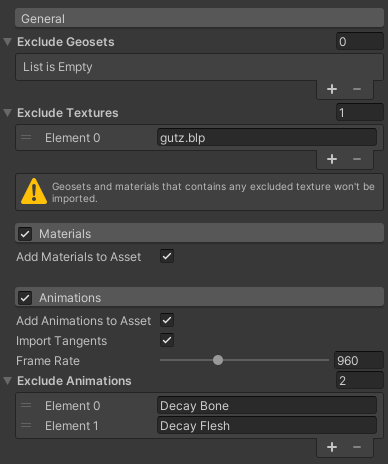
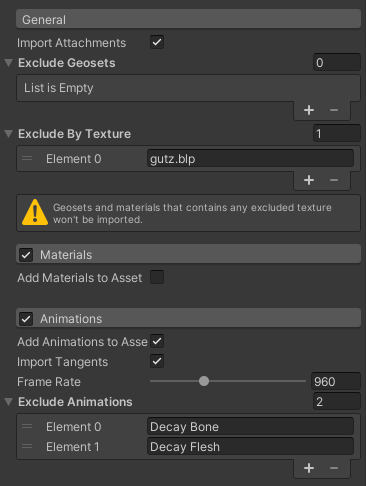
Added import attachments functionality

diff --git a/Runtime/MdxModel.cs b/Runtime/MdxModel.cs
@@ -107,7 +107,7 @@ public class MdxModel
         for( int i = 0; i < cmodel.Geosets.Count; i++ )
         {
             CGeoset cgeoset = cmodel.Geosets.Get(i);
-            if( settings.excludeGeosets.Contains(i) || cgeoset.ContainsTextures(settings.excludeTextures) )
+            if( settings.excludeGeosets.Contains(i) || cgeoset.ContainsTextures(settings.excludeByTexture) )
             {
                 continue;
             }
@@ -180,7 +180,7 @@ public class MdxModel
         for( int i = 0; i < cmodel.Materials.Count; i++ )
         {
             CMaterial cmaterial = cmodel.Materials.Get(i);
-            if( cmaterial.ContainsTextures(settings.excludeTextures) )
+            if( cmaterial.ContainsTextures(settings.excludeByTexture) )
             {
                 continue;
             }
@@ -214,7 +214,7 @@ public class MdxModel
         for( int i = 0; i < cmodel.Geosets.Count; i++ )
         {
             CGeoset cgeoset = cmodel.Geosets.Get(i);
-            if( cgeoset.ContainsTextures(settings.excludeTextures) )
+            if( cgeoset.ContainsTextures(settings.excludeByTexture) )
             {
                 continue;
             }
@@ -321,13 +321,52 @@ public class MdxModel
         renderer.bones = bones.Values.ToArray().Select(go => go.transform).ToArray();
         renderer.rootBone = skeleton.transform;
 
+        if( settings.importAttachments )
+        {
+            ImportAttachments();
+        }
+
+        ImportWeights();
+    }
+
+    private void ImportAttachments()
+    {
+        CObjectContainer<CAttachment> cattachments = cmodel.Attachments;
+        for( int i = 0; i < cattachments.Count; i++ )
+        {
+            CAttachment cattachment = cattachments.Get(i);
+            GameObject attachment = new GameObject(cattachment.Name);
+
+            // Pivot points are the positions of each object.
+            CVector3 cpivot = cattachment.PivotPoint;
+
+            // Set the bone position.
+            // MDX/MDL up axis is Z.
+            // Unity up axis is Y.
+            attachment.transform.position = new Vector3(cpivot.X, cpivot.Z, cpivot.Y);
+
+            // Set the attachment parent.
+            if( bones.ContainsKey(cattachment.Parent.NodeId) )
+            {
+                GameObject parent = bones[cattachment.Parent.NodeId];
+                attachment.transform.SetParent(parent.transform);
+            }
+            else
+            {
+                attachment.transform.SetParent(skeleton.transform);
+            }
+        }
+    }
+
+    private void ImportWeights()
+    {
         // Calculate the bone weights.
         // For each geoset.
         List<BoneWeight> weights = new List<BoneWeight>();
         for( int i = 0; i < cmodel.Geosets.Count; i++ )
         {
             CGeoset cgeoset = cmodel.Geosets.Get(i);
-            if( settings.excludeGeosets.Contains(i) || cgeoset.ContainsTextures(settings.excludeTextures) )
+            if( settings.excludeGeosets.Contains(i) || cgeoset.ContainsTextures(settings.excludeByTexture) )
             {
                 continue;
             }

diff --git a/Editor/MdxScriptedImporterInspector.cs b/Editor/MdxScriptedImporterInspector.cs
@@ -5,8 +5,9 @@ using UnityEditor.AssetImporters;
 public class MdxScriptedImporterInspector : ScriptedImporterEditor
 {
     // General.
+    private SerializedProperty importAttachments;
     private SerializedProperty excludeGeosets;
-    private SerializedProperty excludeTextures;
+    private SerializedProperty excludeByTexture;
 
     // Materials
     private SerializedProperty importMaterials;
@@ -22,8 +23,9 @@ public class MdxScriptedImporterInspector : ScriptedImporterEditor
     public override void OnEnable()
     {
         // General.
+        importAttachments = serializedObject.FindProperty("importAttachments");
         excludeGeosets = serializedObject.FindProperty("excludeGeosets");
-        excludeTextures = serializedObject.FindProperty("excludeTextures");
+        excludeByTexture = serializedObject.FindProperty("excludeByTexture");
 
         // Materials.
         importMaterials = serializedObject.FindProperty("importMaterials");
@@ -47,8 +49,9 @@ public class MdxScriptedImporterInspector : ScriptedImporterEditor
 
         // General.
         CustomGUILayout.Title("General");
+        EditorGUILayout.PropertyField(importAttachments, true);
         EditorGUILayout.PropertyField(excludeGeosets, true);
-        EditorGUILayout.PropertyField(excludeTextures, true);
+        EditorGUILayout.PropertyField(excludeByTexture, true);
         EditorGUILayout.HelpBox("Geosets and materials that contains any excluded texture won't be imported.", MessageType.Warning);
         EditorGUILayout.Space(10);
 

diff --git a/Editor/MdxScriptedImporter.cs b/Editor/MdxScriptedImporter.cs
@@ -8,8 +8,9 @@ using UnityEditor.AssetImporters;
 public class MdxScriptedImporter : ScriptedImporter
 {
     // General.
+    public bool importAttachments = true;
     public List<int> excludeGeosets = new List<int>();
-    public List<string> excludeTextures = new List<string>() { "gutz.blp" };
+    public List<string> excludeByTexture = new List<string>() { "gutz.blp" };
 
     // Materials.
     public bool importMaterials = true;
@@ -29,8 +30,9 @@ public class MdxScriptedImporter : ScriptedImporter
         MdxModel model = new MdxModel();
         MdxImportSettings settings = new MdxImportSettings()
         {
+            importAttachments = importAttachments,
             excludeGeosets = excludeGeosets,
-            excludeTextures = excludeTextures,
+            excludeByTexture = excludeByTexture,
             importMaterials = importMaterials,
             importAnimations = importAnimations,
             importTangents = importTangents,

diff --git a/Runtime/MdxImportSettings.cs b/Runtime/MdxImportSettings.cs
@@ -3,8 +3,9 @@ using System.Collections.Generic;
 public class MdxImportSettings
 {
     // General.
+    public bool importAttachments = true;
     public List<int> excludeGeosets = new List<int>();
-    public List<string> excludeTextures = new List<string>();
+    public List<string> excludeByTexture = new List<string>();
 
     // Materials.
     public bool importMaterials = true;

diff --git a/README.md b/README.md
@@ -15,7 +15,7 @@ MDX/MDL to Unity importer.
 ## TODO
 
 - [x] Exclude Geosets
-- [ ] Import Attachments
+- [x] Import Attachments
 - [ ] Improve Built-in Material
 - [ ] Support URP Material
 
@@ -23,6 +23,7 @@ MDX/MDL to Unity importer.
 
 <p align="center"><img align="center" src="Documentation~/mdx_import_settings.png"></p>
 
+* Import attachments.
 * Exclude geosets by ID.
 * Exclude geosets and materials by texture name.
 * Import materials independent from the asset.
